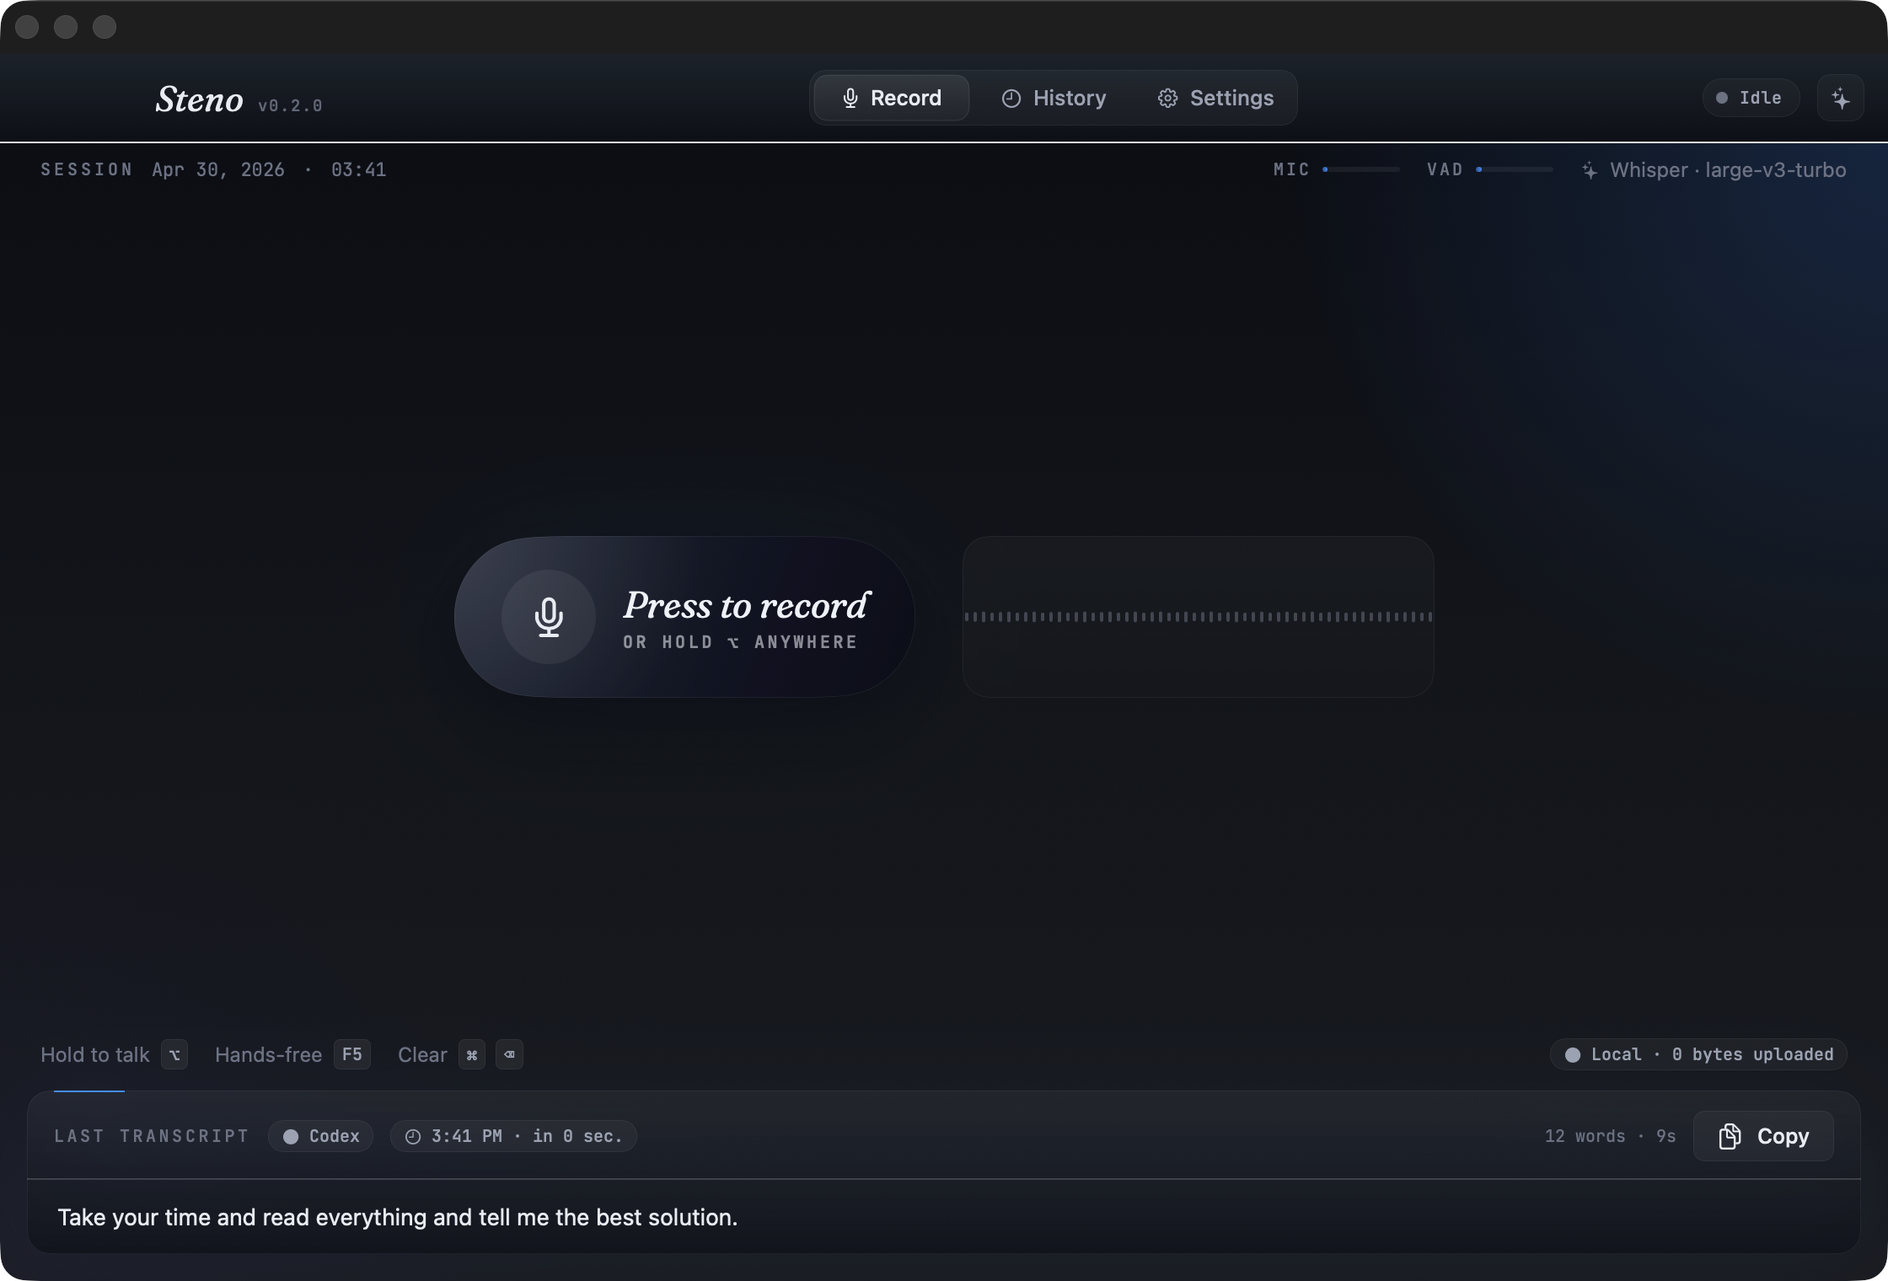
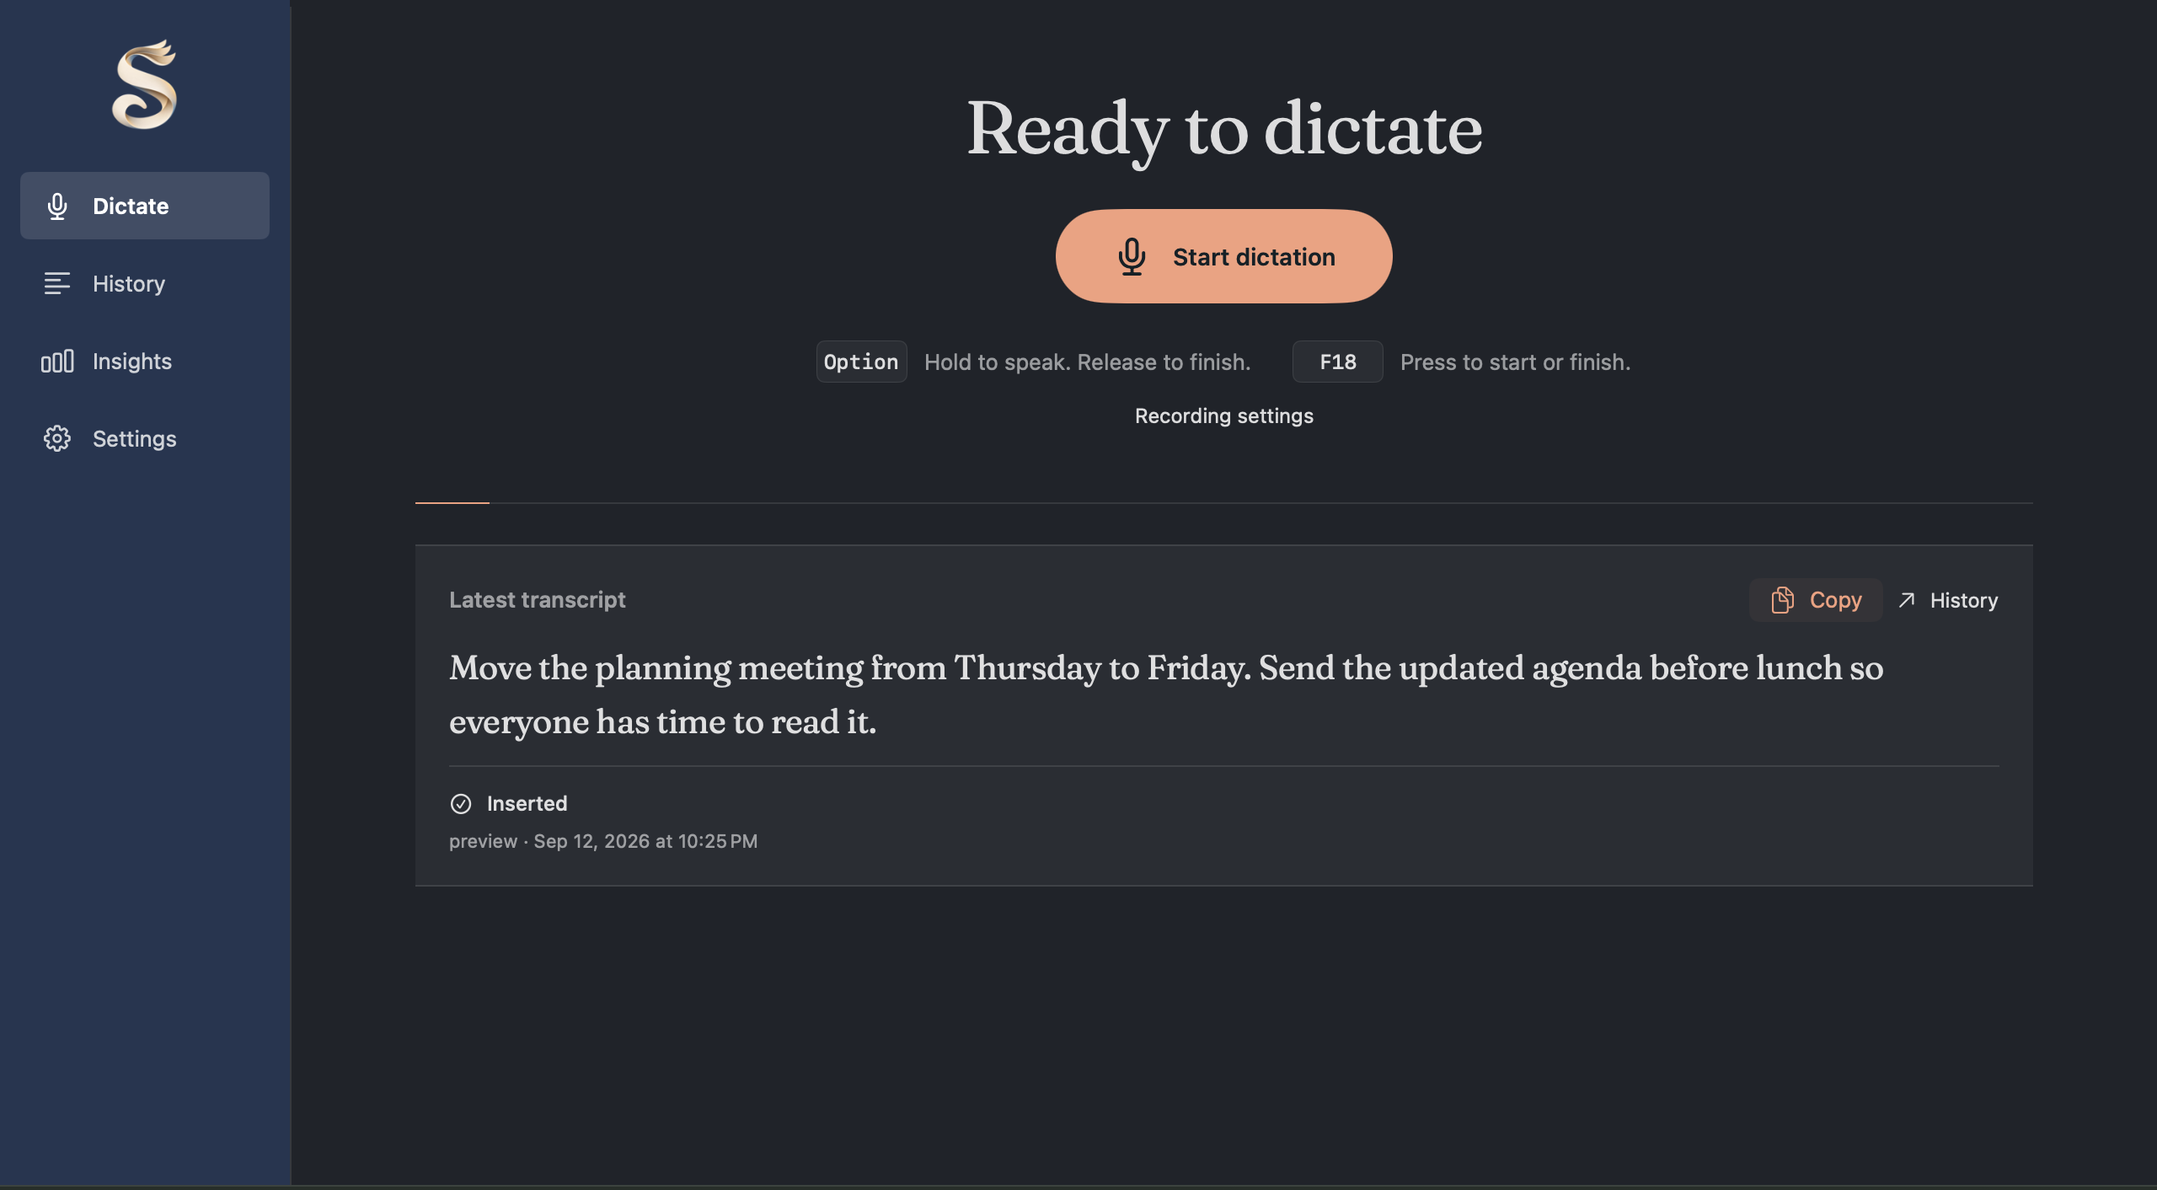
Prepare the 1.0 README and native app screenshots

diff --git a/Steno/OverlayReviewPlayer.swift b/Steno/OverlayReviewPlayer.swift
@@ -85,7 +85,7 @@ final class OverlayReviewPlayer: ObservableObject {
     }
 
     static var sampleFrames: [String] {
-        let sample = "Send the revised agenda on Thursday. Keep the launch date at September 18, and leave the accessibility review in place. The next paragraph is a longer thought that grows naturally as more words arrive. It should remain comfortable to read without taking over the screen. When the passage fills the available space, the next part continues in the same position. Names, numbers, and punctuation remain exactly as the recognition snapshot supplies them. A correction may replace an earlier word instead of adding a duplicate sentence. Even a long sequence without a convenient pause should stay within the display and keep its latest words visible. This is the final sentence of the sample."
+        let sample = "Move the planning meeting from Thursday to Friday. Send the updated agenda before lunch so everyone has time to read it. We need to decide which rooms to book and check that there are enough chairs for the group. Leave a few minutes at the end for questions. After the meeting, pick up tomatoes, pasta, olive oil, and a loaf of bread. Check whether we need coffee before leaving. If the weather stays dry, take the path along the river and turn left at the bridge. The cafe has a few tables outside where we can stop after the walk. Bring a light jacket in case it gets cold on the way home."
         let words = sample.split(separator: " ")
         var frames: [String] = []
         for end in stride(from: 3, through: words.count, by: 4) {

diff --git a/Steno/PreviewSupport.swift b/Steno/PreviewSupport.swift
@@ -67,10 +67,10 @@ enum IsolatedAppPreview {
 
     static var entries: [TranscriptEntry] {
         let samples: [(String, InsertionStatus)] = [
-            ("Send the revised agenda on Thursday. Keep the launch date at September 18, and do not change the accessibility review.", .inserted),
-            ("The editor closed before insertion. This sample is ready to copy when you return to your document.", .copiedOnly),
-            (String(repeating: "A clear thought deserves room to breathe. Names, numbers, and deliberate punctuation should stay exactly as spoken. ", count: 12), .inserted),
-            ("Please keep this sentence, even when insertion needs another try.", .failed)
+            ("Move the planning meeting from Thursday to Friday. Send the updated agenda before lunch so everyone has time to read it.", .inserted),
+            ("Pick up tomatoes, pasta, olive oil, and a loaf of bread. Check whether we need coffee before leaving.", .copiedOnly),
+            (String(repeating: "Take the path along the river, turn left at the bridge, and meet outside the cafe after the walk. ", count: 12), .inserted),
+            ("Book a table for four near the window, and ask whether there is space for a stroller.", .failed)
         ]
         return samples.enumerated().map { index, sample in
             TranscriptEntry(createdAt: Date().addingTimeInterval(-Double(index * 3_600)),

diff --git a/StenoTests/AppRenderingTests.swift b/StenoTests/AppRenderingTests.swift
@@ -243,7 +243,7 @@ struct AppRenderingTests {
         let transcripts = [
             ("short", "Keep this sentence."),
             ("medium", "Please send the revised agenda on Thursday. Keep the launch date at September 18, and leave enough time for the accessibility review before the team meets."),
-            ("long", String(repeating: "Names, numbers, and deliberate punctuation should stay exactly as spoken. A longer thought needs room to breathe. ", count: 18))
+            ("long", String(repeating: "Take the path along the river, turn left at the bridge, and meet outside the cafe after the walk. ", count: 18))
         ]
 
         for appearance in [ColorScheme.light, .dark] {

diff --git a/README.md b/README.md
@@ -1,154 +1,39 @@
 # Steno
 
-Fast local dictation for Apple silicon Macs, with a 1.0 candidate in development.
+Steno is a free, open-source dictation app for Apple silicon Macs. Hold **Option**, speak, and release to type into the app you're using. Speech recognition runs on your Mac through [whisper.cpp](https://github.com/ggerganov/whisper.cpp), with no account or API key required.
 
-Steno is a local-first voice-to-text app for people who want responsive dictation, reliable insertion, and conservative cleanup without shipping their audio to a hosted transcription service. The unreleased 1.0 candidate adds local Insights and a retained Whisper runtime while preserving a command-line fallback.
+[Download](https://github.com/Ankit-Cherian/steno/releases/latest) · [Build from source](QUICKSTART.md) · [Changelog](CHANGELOG.md)
 
-[![Swift Tests](https://github.com/Ankit-Cherian/steno/actions/workflows/swift-tests.yml/badge.svg)](https://github.com/Ankit-Cherian/steno/actions/workflows/swift-tests.yml)
+<a href="assets/record.png"><img src="assets/record.png" alt="Steno Dictate with the Terracotta accent in dark mode" width="100%"></a>
 
-## Download
+Steno requires **macOS 13 or later and Apple silicon**. Open the downloaded DMG, drag Steno into Applications, and launch it there. To update, download the latest release and replace the copy in Applications. The downloadable app includes a speech model, so you don't need to set up a separate transcription service. During setup, allow Microphone access to record, Accessibility to insert text, and Input Monitoring to use shortcuts while another app is focused.
 
-The latest public release is Steno v0.2.0:
+For a first dictation, click into a text field, hold Option, and say a sentence. Release Option when you're finished. Steno transcribes the recording and inserts the result. If it reports that the text was copied instead, press **Cmd+V** where you want it. You can also recover the text from History.
 
-[Download Steno-0.2.0.dmg](https://github.com/Ankit-Cherian/steno/releases/download/v0.2.0/Steno-0.2.0.dmg)
+For longer recordings, choose a hands-free function key in Settings → Recording; the default is **F18**. Press it once to start and again to finish. Stop finishes a recording, while Cancel discards it. You can turn on the floating live transcript to follow along as you speak. Those words may change as recognition continues; the completed recording determines the text that gets inserted and saved.
 
-Version 1.0 is under local development and testing. It has not been released as a Developer ID signed, notarized download. Cloning the public default branch does not provide the complete local candidate.
+Settings also lets you adjust how Steno handles your words:
 
-Open the DMG, drag Steno to Applications, then launch Steno from Applications. Source setup is only needed if you want to build or contribute to the app.
+- Add recurring misheard words and preferred spellings to your word list, with optional aliases and rules for individual apps.
+- Expand a short phrase into saved text, such as an address or a reply you use often. Shortcuts can apply everywhere or in one app.
+- Choose cleanup preferences. Default cleanup keeps ambiguous phrases such as “like” and “you know”; Aggressive cleanup can remove its supported fillers.
+- Enable media interruption to pause an app that is playing audio and resume it after recording. Steno leaves playback alone when it cannot confirm which app it would control.
+- Choose a light or dark appearance, follow the system setting, and pick an accent color.
 
-## What Is New in the 1.0 Candidate
+Most settings wait for **Save changes**; **Discard** restores the saved values. Appearance changes save immediately.
 
-- One Manuscript design covers Dictate, History, Insights, Settings, and onboarding, with a compact recording pill, clearer typography, a transparent ribbon S brand mark, and saved accent preferences.
-- The recording overlay grows into a bounded reading area with stable Stop and Cancel controls. It follows the current hypothesis and keeps the completed recording authoritative for insertion.
-- Settings keeps an unsaved draft across navigation, with persistent Save changes and Discard controls and protection against conflicting updates. Onboarding separates setup, permissions, model readiness, and the first dictation check.
-- Optional live transcription shows a bounded preview while recording. Only the completed recording supplies the final text for insertion.
-- Optional nearby-text continuation adjusts insertion spacing and conservative casing using a bounded selection snapshot from the captured editor. Nearby text never enters recognition prompts, history, or analytics.
-- Insights summarizes a local activity calendar, streaks, words, known dictated time, sessions, average speed, cleanup coverage, and top apps.
-- Insights stores per-session usage metadata such as counts, duration quality, application identifier, cleanup counts, and insertion outcome. It does not copy transcript text or audio into the analytics ledger.
-- Usage analytics persist separately from transcript history. Deleting a transcript does not delete the corresponding aggregate usage totals.
-- A private retained runtime keeps the selected Whisper model loaded between compatible dictations. If that helper fails, Steno invalidates it and uses the existing `whisper-cli` path for the request.
-- Acoustic verification addresses unwanted repeated text such as "Terms, Terms, Terms" while preserving deliberately spoken words.
-- Media interruption is application-targeted and fail-closed: Steno only resumes the exact application and process lineage it verified that it paused. Ambiguous playback ownership does not authorize Play.
-- Cleanup remains conservative by default. Ambiguous language is preserved; phrases such as `like`, `you know`, `question mark`, `open paren`, and `slash command` are not automatically inferred away or converted to symbols. Narrow filler removal is available only through the explicit aggressive policy.
+<a href="assets/1.0/history-dark.png"><img src="assets/1.0/history-dark.png" alt="Steno History with fictional sample notes" width="100%"></a>
 
-## What Steno Does
+History keeps your most recent 1,000 dictations on your Mac. Search them, check whether the text was inserted or copied, copy it again, or delete an entry. Insights shows daily activity, streaks, words dictated, time spent, and usage by app. It stores session dates, app identifiers, and usage counts without a second copy of your transcripts or audio. Deleting a History entry leaves those usage totals intact.
 
-- High-accuracy local transcription with `whisper.cpp`
-- Bundled `small.en` for immediate first-run use, with in-app downloads for larger canonical models based on your hardware
-- App-aware insertion: direct typing where it is safe, clipboard-first behavior where paste-sensitive targets need it
-- Global dictation controls: `Option` hold-to-talk plus a configurable hands-free toggle key
-- Local cleanup with tone, structure, conservative repair and punctuation handling, lexicon corrections, and explicit aggressive filler removal
-- Personal lexicon corrections, app-specific overrides, and text shortcuts
-- Searchable transcript history with transcript inspection and recovery-oriented copy actions
-- A separate local Insights ledger for activity, streak, word, time, session, speed, cleanup, and top-app summaries
-- VoiceOver-aware controls and reduced-motion-aware animation behavior
-- Nonactivating recording overlay with a static recording indicator, readable flowing preview, outcome icons, and separate Stop and Cancel controls
+Optional nearby-text continuation reads a small amount of text around the editor selection to adjust spacing and capitalization. It currently works with English text in supported fields in Apple Mail, Notes, and TextEdit. That text is temporary: it isn't saved in History or Insights or sent to the speech model. Steno skips automatic continuation in secure or unsupported fields and when it cannot confirm the original editor target.
 
-## Validation Status
+Once the model is installed, dictation works offline. Settings → Speech model offers Medium and Large V3 Turbo downloads if you want to try another model; downloading requires an internet connection. Steno reuses the loaded model for later recordings when possible. Accuracy and response time depend on the model, your Mac, and the recording. Review the finished text, especially names and technical terms.
 
-The May 15 evaluation is historical evidence for the 0.2.1 candidate on one M5 Pro / 64GB / Large V3 Turbo row. It does not validate the current unreleased 1.0 tree or other hardware/model combinations.
+[View Insights](assets/1.0/insights-light.png) · [View Settings](assets/settings.png)
 
-The unwanted repeated-Terms bug is closed after maintainer testing of the installed correction. Automated package and hosted macOS tests, app builds, and synthetic production-view checks have also passed on the recorded development source. Final-source release evaluation, a complete live microphone/media/insertion acceptance pass, VoiceOver, sleep/wake, macOS 13, and distribution checks remain release gates. See [the 1.0 checklist](docs/release/1.0-checklist.md) for the acceptance record and separately deferred accuracy limitations; a local ad-hoc signature is not Developer ID distribution signing.
+This guide describes the **unreleased 1.0.0 candidate**. The download link points to the latest published release, which may have different features. Screenshots use fictional sample data. The [release checklist](docs/release/1.0-checklist.md) records the remaining acceptance and distribution checks.
 
-## Screenshots
+To build or contribute, follow the [source setup](QUICKSTART.md) and [contribution guide](CONTRIBUTING.md). Development requires Xcode with Swift 6.2 or later, XcodeGen, CMake, and the pinned local Whisper runtime and models described in the setup guide. The app uses SwiftUI and AppKit; [StenoKit](StenoKit/README.md) contains the core services and benchmark tools. The [CI guide](docs/ci-cd.md) explains the automated checks and packaging workflow.
 
-These are historical 0.2 product screenshots. They are not manual UI evidence for the unreleased 1.0 candidate.
-
-<table>
-  <tr>
-    <td><img src="assets/record.png" alt="Record tab in Steno 0.2" width="620"></td>
-    <td><img src="assets/settings.png" alt="Settings appearance tab in Steno 0.2" width="620"></td>
-  </tr>
-</table>
-
-## Developer Setup
-
-For source builds, use [QUICKSTART.md](QUICKSTART.md). Local development requires an Apple silicon Mac running macOS 13 or later, Xcode, XcodeGen, CMake, the pinned `whisper.cpp` checkout, a local model, and the Silero VAD model. The canonical binaries live under `vendor/whisper.cpp/build-steno/`.
-
-### Model guidance
-
-Steno curates four canonical local models:
-
-- `base.en`
-- `small.en`
-- `medium.en`
-- `large-v3-turbo`
-
-Conservative starting points:
-
-| Detected Apple silicon tier | Unified memory | Recommended default |
-|---|---:|---|
-| Base M1 / M2 / M3 | 8GB-16GB | `small.en` |
-| Base M2 / M3 / M4 / M5 | 24GB-32GB | `medium.en` |
-| Pro-tier chips | 16GB-31GB | `medium.en` |
-| Pro / Max chips | 32GB+ | `large-v3-turbo` |
-
-These are recommendation tiers, not blanket validation claims. Exact validated rows live in the compatibility matrix and release-eval artifacts.
-
-## Daily Use
-
-- Hold `Option` to record immediately, then release to transcribe and insert.
-- Use the configured hands-free function key to start and stop dictation without holding a modifier.
-- Let Steno route insertion by target: direct typing for standard editors, safer clipboard-oriented behavior where needed.
-- Use Settings to control cleanup tone, structure, filler removal, command handling, appearance, and engine configuration.
-- Use History to search old transcripts, recover prior text, and copy the output for pasting where you need it.
-- Use Insights to review local usage trends without placing transcript text or audio in the analytics ledger.
-
-## Retained Runtime
-
-The retained runtime launches `steno-whisper-runtime` as a private child process and communicates through inherited pipes. It does not expose an HTTP server or network listener. The first retained request pays model-load cost; changing the model, VAD path, or another load identity invalidates that context and the next request reloads it. Sleep/wake recovery, memory pressure, cancellation, shutdown, or helper failure can also unload the retained context. The existing `whisper-cli` engine remains the safe fallback.
-
-## Release Eval
-
-The repo-level release-eval entrypoint is:
-
-```bash
-STENO_WHISPER_CLI=/absolute/path/to/whisper-cli \
-STENO_WHISPER_MODEL=/absolute/path/to/ggml-large-v3-turbo.bin \
-STENO_VAD_MODEL=/absolute/path/to/ggml-silero-v6.2.0.bin \
-STENO_LIBRISPEECH_ROOT=/absolute/path/to/librispeech_test_clean \
-scripts/run-release-eval.sh
-```
-
-Useful notes:
-
-- `scripts/run-release-eval.sh --smoke-only` runs only the package tests plus the smoke fixture benchmark.
-- Full release eval writes local audit artifacts that stay out of git.
-- Smoke and release evidence are intentionally separate.
-- The release report also records `not_evaluable` gates when the corpus did not honestly exercise a metric.
-
-For the benchmark and signoff workflow details, see [docs/release/release-eval.md](docs/release/release-eval.md).
-
-## Contributor Path
-
-- 1.0 acceptance and release preparation: [docs/release/1.0-checklist.md](docs/release/1.0-checklist.md)
-- Setup and contributor workflow: [CONTRIBUTING.md](CONTRIBUTING.md)
-- Fast local run instructions: [QUICKSTART.md](QUICKSTART.md)
-- Historical 0.2 release brief: [docs/release/v0.2.0-release-brief.md](docs/release/v0.2.0-release-brief.md)
-- Direct-download DMG workflow: [docs/release/direct-distribution.md](docs/release/direct-distribution.md)
-- Core package overview: [StenoKit/README.md](StenoKit/README.md)
-
-## Known Limitations
-
-- Apple silicon Mac running macOS 13 or later
-- Local setup still expects the pinned `whisper.cpp` checkout, a `build-steno` runtime, and downloaded Whisper and VAD model files
-- Release-eval validation is row-specific, not universal hardware proof
-- Production microphone behavior is broader than the current benchmark corpus
-- Recognition and cleanup can still make errors; review names, numbers, negation, and other meaning-sensitive text before sharing it
-- The unreleased 1.0 candidate still requires manual live-app checks plus distribution signing and notarization before release
-
-## Security
-
-See [SECURITY.md](SECURITY.md) for vulnerability reporting expectations.
-
-## Support
-
-See [SUPPORT.md](SUPPORT.md) for usage help and bug report paths.
-
-## Acknowledgments
-
-Steno uses [whisper.cpp](https://github.com/ggerganov/whisper.cpp) by Georgi Gerganov and contributors for local speech-to-text transcription. whisper.cpp is licensed under the MIT License. See [THIRD_PARTY_NOTICES.md](THIRD_PARTY_NOTICES.md) for the upstream notice text included with this repository.
-
-## License
-
-MIT — see [LICENSE](LICENSE) for details.
+[Support](SUPPORT.md) · [Report a security issue](SECURITY.md) · [MIT license](LICENSE) · [Third-party notices](THIRD_PARTY_NOTICES.md)
